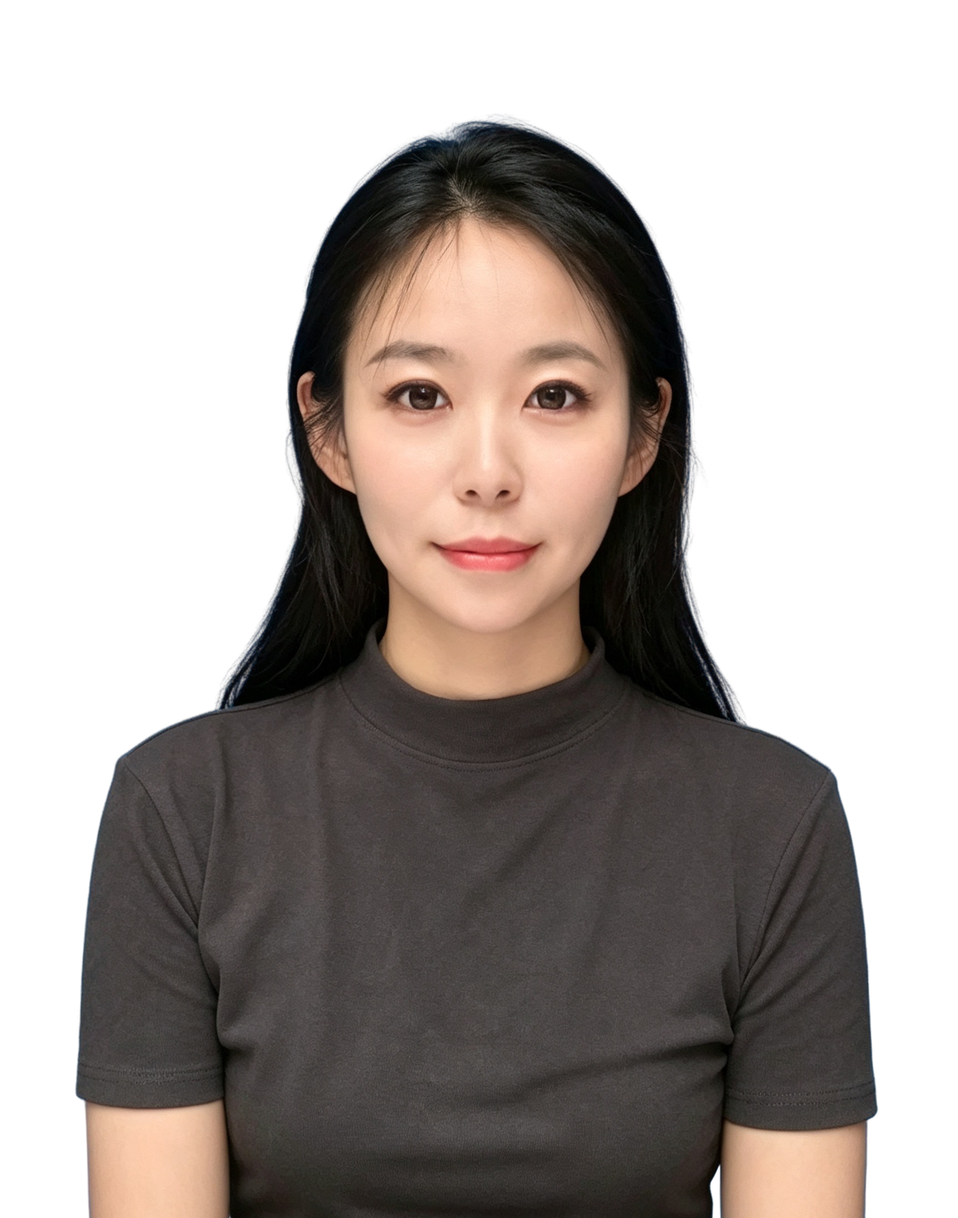
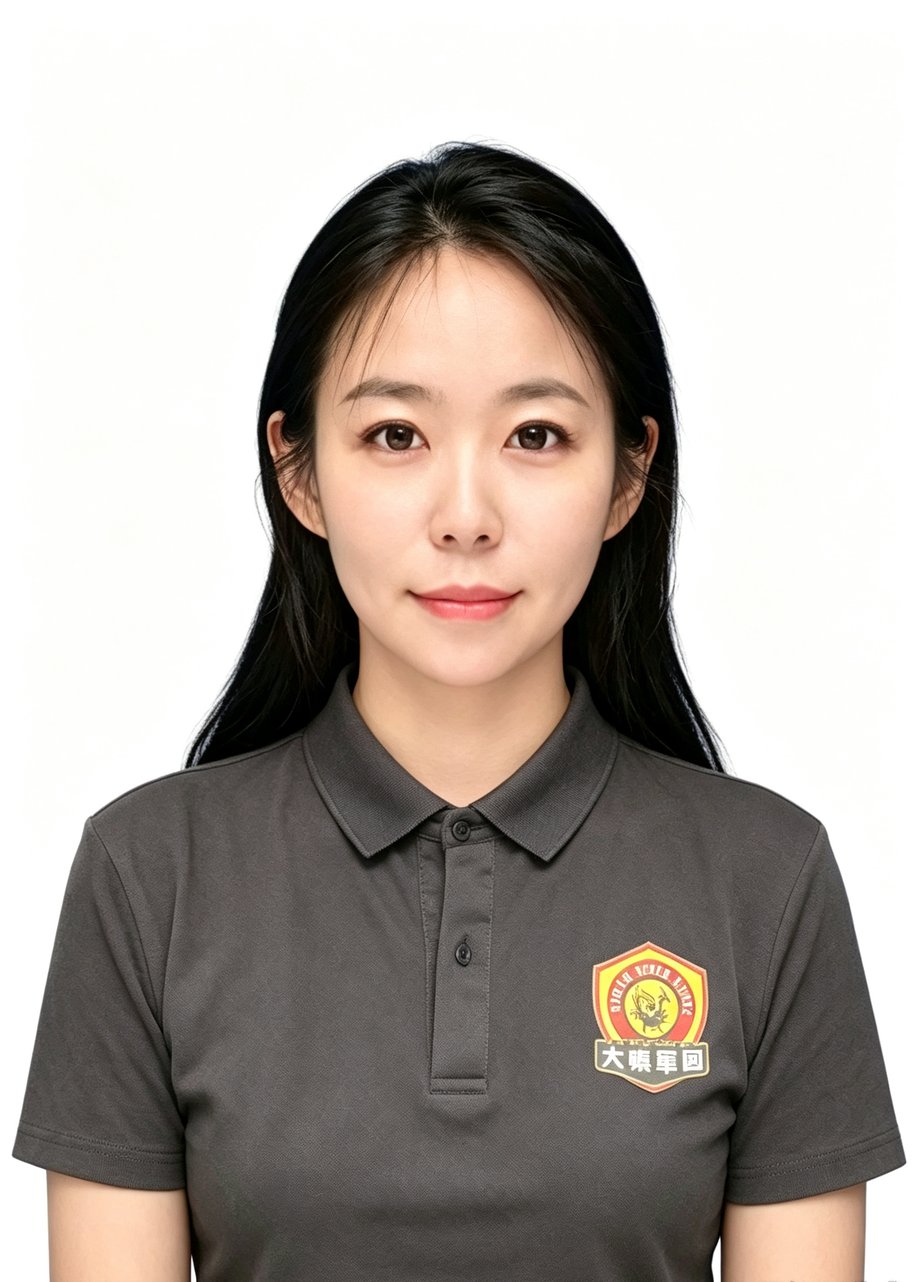
Update Zhao Lin photo, drop orig badge on staff cards

Changed region(s): [[0.0, 0.0929, 1.0, 1.0], [0.3438, 0.1549, 0.375, 0.1859]]

diff --git a/js/main.js b/js/main.js
@@ -345,18 +345,6 @@
           "<small>" + (s.en || "") + "</small>" +
           (duties ? '<ul class="staff-duties">' + duties + "</ul>" : "");
         card.appendChild(body);
-
-        if (s.img && s.img.indexOf("images/team/") === 0 &&
-            s.img.toLowerCase().slice(-4) === ".jpg" && s.img.indexOf("陈涛_1") === -1) {
-          var so = document.createElement("a");
-          so.className = "p-orig p-orig--staff";
-          so.href = "images/originals/team/" + encodeURIComponent(s.img.split("/").pop());
-          so.target = "_blank";
-          so.rel = "noopener";
-          so.textContent = "原图";
-          so.setAttribute("aria-label", "在新窗口查看" + (s.name || "") + "的原图");
-          card.appendChild(so);
-        }
         staffWall.appendChild(card);
       });
     } catch (e) { /* 数据格式错误时静默 */ }

diff --git a/team.html b/team.html
@@ -293,6 +293,6 @@
   </footer>
 
   <div class="toast" role="status" aria-live="polite"></div>
-  <script src="js/main.js?v=28"></script>
+  <script src="js/main.js?v=29"></script>
 </body>
 </html>
